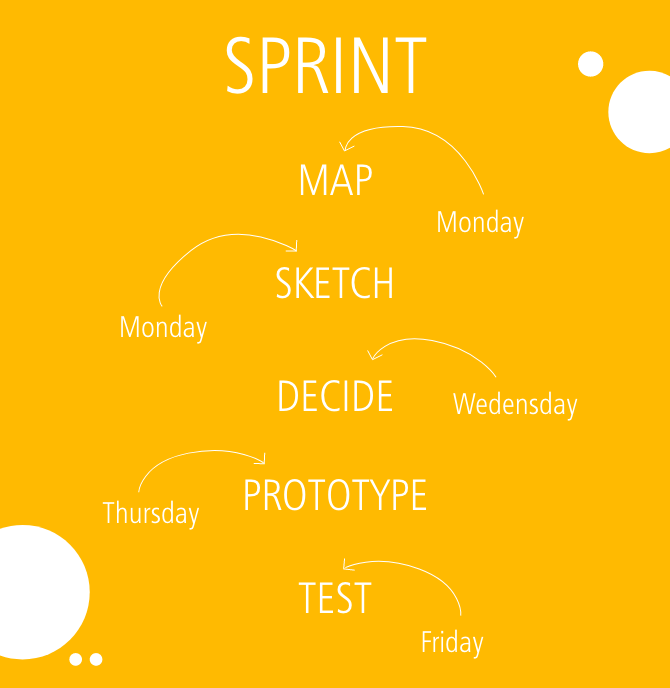
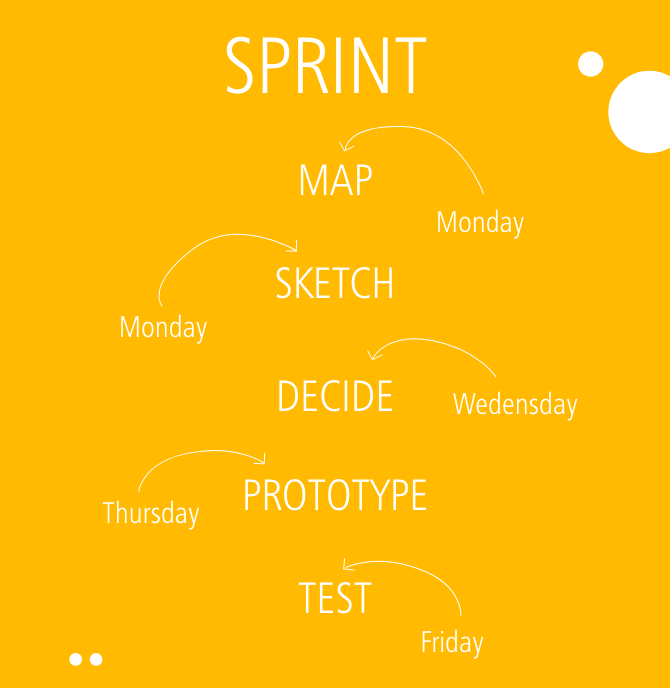
last commit on pc - laptop forward

Changed region(s): [[0.0, 0.7631, 0.1493, 0.9767]]

diff --git a/tema5.html b/tema5.html
@@ -46,13 +46,19 @@
         <section class="section_wrapper">
           <h2>Beskrivelse af Tema05</h2>
           <p>
-            I dette tema har vi lært om opretshav og imartterielle rettigheder,
-            da det er vigtigt at overholde de regler der er gældende, når man
-            producerer indhold. Vi er blevet undervist i forskellige
-            klippeteknikker, dramaturgi, billed-og videokomposition, fotostil,
-            storyboard, Interviewguides og lært om filmens grundelementer. Jeg
-            har også tilegenet mig viden om lyd og dets formater, hvordan man
-            optager god lyd samt redigerer og synkroniserer.
+            I dette tema har jeg lært om opretshav og imartterielle rettigheder,
+            da det er et rigtig vigtigt at overholde de regler der er gældende
+            og hvilke muligheder der er for overdragelse samt mulige
+            licenseringsmetoder, når man producerer indhold. Jeg er blevet
+            undervist i forskellige klippeteknikker, dramaturgi, billed-og
+            videokomposition, fotostil, designmanualer, storyboards,
+            Interviewguides og lært om filmens grundelementer. Jeg har lært at
+            bruge de forskellige fil-formater i den rette sammenhæng og forstå
+            forskellen mellem en rå-fil og en komprimeret. Da dette tema har
+            bestået af to gruppeafleveringer, har vi benyttet os af Github med
+            et repository, så vi kunne arbejde på den samme fil. Vi gjorde også
+            brug af Netlify, så vi kunne se hinandens push ændringer i linket,
+            samt få et overblik over de henvendelser der kom i vores formular.
           </p>
         </section>
       </section>
@@ -60,7 +66,7 @@
       <section class="content_section">
         <section class="content">
           <div class="text_wrapper">
-            <h2>Pilot-projekt</h2>
+            <h3>Pilot-projekt</h3>
             <p>
               Indholdet i denne opgave er fotograferet og filmet med både et
               DSLR kamera og en telefonkamera. Lyden er blevet optaget med en
@@ -77,29 +83,38 @@
           </div>
           <img src="billeder/Blackdot.png" alt="" />
           <div class="text_wrapper">
-            <h2>Redesign af Flyvergrillen</h2>
+            <h3>Redesign af Flyvergrillen</h3>
             <p>
-              Indholdet i denne opgave er fotograferet og filmet med både et
-              DSLR kamera og en telefonkamera. Lyden er blevet optaget med en
-              ekstern knaphuls-mikrofon og alt redigeringsarbejdet er foregået i
-              Premiere Pro, hvor der er tilføjet motions, effects, colorgrading
-              samt en lower-third. Lyden har jeg redigeret i Audit og
-              efterfølgende synkroniseret i Premiere Pro. <br />
-              Inden optagelserne har jeg gjort brug af dramaturgi, storyboard og
-              et interview guide.
+              I dette gruppe projekt valgte vi at arbejdet med SCRUM
+              modellen/metoden, hvor jeg havde tilten som SCRUM-master. For at
+              holde styr på tidsplanen og fordeling af arbejdsopgaverne
+              benyttede vi os af et burn-down-chart og et Trello-board. Vi
+              arbejdede udfra en dobbelt-diamond metode hvor vi først indsamlede
+              viden om Flyvergrillen og det Eksisterende site. For at analysere
+              lavede vi bl.a. et styletile, Sitemap, fotostil og indhold og
+              funktionslister kombineret med 5-sekunderstest og en BERT-test. Vi
+              brugte forskellige research-metoder som vi lærte i tema 3, til at
+              indsamle indsigter om målgruppen, som er et stort grundlag for
+              redesignet. Designet blev lavet ved hjælp af moodboard, styletile,
+              nye sitemaps, indhold og funktionslister samt wireframes og
+              derefter en prototype. Prototypen blev testet i en tænke-højt test
+              og derefter tilrettet og så kunne vi begynde og kode. Da
+              redesignet var færdigt, benyttede vi os af de samme test, som ved
+              analyse delen og tiføjede en ekspert-test og en light-house test
+              samt html og css validering.
             </p>
             <a
               href="http://sophiacannon.dk/kea/05_indhold/02_redesign/flyvergrillen"
-              ><p>Klik her for at se projektet</p></a
+              ><p>Klik her for at se redesignet</p></a
             >
             <a
               href="http://sophiacannon.dk/kea/05_indhold/02_redesign/Dokumentations%20dokument_gruppe11_redesign_flyvergrillen.pdf"
               ><p>Klik her for at se processdokumentationen</p></a
             >
           </div>
-          <img src="billeder/Blackdot.png" alt="" />
+          <img src="billeder/Redesign.png" alt="redesign af flyvergrillen" />
           <div class="text_wrapper">
-            <h3>Billedkompositon, b-rolls og 5-skudsreglen:</h3>
+            <h4>Billedkompositon, b-rolls og 5-skudsreglen:</h4>
             <p>
               I begge opgaver er der gjort meget ud af billedkomposition. Efter
               min mening kan dette ikke undlades hvis du vil producerer godt
@@ -115,7 +130,7 @@
           </div>
           <img src="billeder/Blackdot.png" alt="" />
           <div class="text_wrapper">
-            <h3>Dramaturgi, Storyboards og interviewguide:</h3>
+            <h4>Dramaturgi, Storyboards og interviewguide:</h4>
             <p>
               Inden vi filmede til pilotprojektet og til Redesignet valgte vi
               først og fremmest at kigge på dramaturgien. Da vi var enige om

diff --git a/tema3.html b/tema3.html
@@ -42,9 +42,12 @@
     </header>
     <main>
       <section class="beskrivelse_section">
-        <img src="Billeder/orangedot.png" alt="" />
+        <img src="Billeder/sprint.png" alt="" />
         <section class="section_wrapper">
-          <h2>Beskrivelse af Tema03</h2>
+          <h2>
+            Beskrivelse af Tema 03 <br />
+            Grundlæggende UX
+          </h2>
           <p>
             Lorem ipsum dolor sit amet, consectetur adipisicing elit.
             Consectetur eligendi atque, nesciunt consequuntur id cumque. Facilis
@@ -63,7 +66,7 @@
       <section class="content_section">
         <section class="content">
           <div class="text_wrapper">
-            <h3>moodbord</h3>
+            <h4>moodbord</h4>
             <p>
               Lorem ipsum dolor sit amet consectetur, adipisicing elit. Eveniet
               consequatur id exercitationem perferendis tempore aut eligendi
@@ -76,7 +79,7 @@
           </div>
           <img src="billeder/Blackdot.png" alt="" />
           <div class="text_wrapper">
-            <h3>moodbord</h3>
+            <h4>moodbord</h4>
             <p>
               Lorem ipsum dolor sit amet consectetur, adipisicing elit. Eveniet
               consequatur id exercitationem perferendis tempore aut eligendi
@@ -88,6 +91,25 @@
             </p>
           </div>
           <img src="billeder/Blackdot.png" alt="" />
+          <div class="text_wrapper">
+            <h4>Dokumenter</h4>
+            <a
+              href="www.sophiacannon.dk/kea/03_ux/Procces%20-og%20designdokumentation.pdf"
+              ><p>Klik her for at se process -og designdokumentationen</p></a
+            >
+            <a
+              href="https://xd.adobe.com/view/5441d835-ecb4-415d-93f1-0a4833702b2e-0112/"
+              ><p>Klik her for at se og prøve den endelige prototype</p></a
+            >
+            <a
+              href="http://www.sophiacannon.dk/kea/03_ux/STICKIT%20pitch%20pr%C3%A6sentation.pdf"
+              ><p>Klik her for at se pitch præsentationen</p></a
+            >
+            <a
+              href="https://docs.google.com/document/d/1YdU4fzRYxzETsXyC6UB2o4ma1nt_LXtyWAV9A8buGvI/edit"
+              ><p>Klik her for at se pitch feedback</p></a
+            >
+          </div>
         </section>
       </section>
     </main>

diff --git a/style.css b/style.css
@@ -32,7 +32,11 @@ h2 {
 }
 
 h3 {
-  font-size: clamp(1.5rem, -2rem + 8vw, 2rem);
+  font-size: clamp(1.5rem, -2rem + 8vw, 3rem);
+}
+
+h4 {
+  font-size: clamp(1.5rem, -2rem + 8vw, 2.3rem);
 }
 
 p {
@@ -514,8 +518,6 @@ a:hover {
   @keyframes dropdown_kf {
     from {
       transform: translateX(-100vw);
-      /* rotate: -145deg; */
-      /* scale: 0; */
     }
   }
   .bringleft {
@@ -639,12 +641,20 @@ a:hover {
   height: 2vw;
 }
 .beskrivelse_section,
-.beskrivelse_section .section_wrapper,
 .content_section .content1 {
   display: grid;
-  gap: 10px;
+  gap: 3rem;
+}
+
+.beskrivelse_section .section_wrapper {
+  display: grid;
+  gap: 1rem;
+}
+
+#temaer .beskrivelse_section h2 {
+  font-size: clamp(2rem, -4rem + 16vw, 2.3rem);
 }
 
 .beskrivelse_section h2 {
-  font-size: clamp(2rem, -4rem + 16vw, 2.3rem);
+  font-size: clamp(1.9rem, -4rem + 16vw, 4rem);
 }
